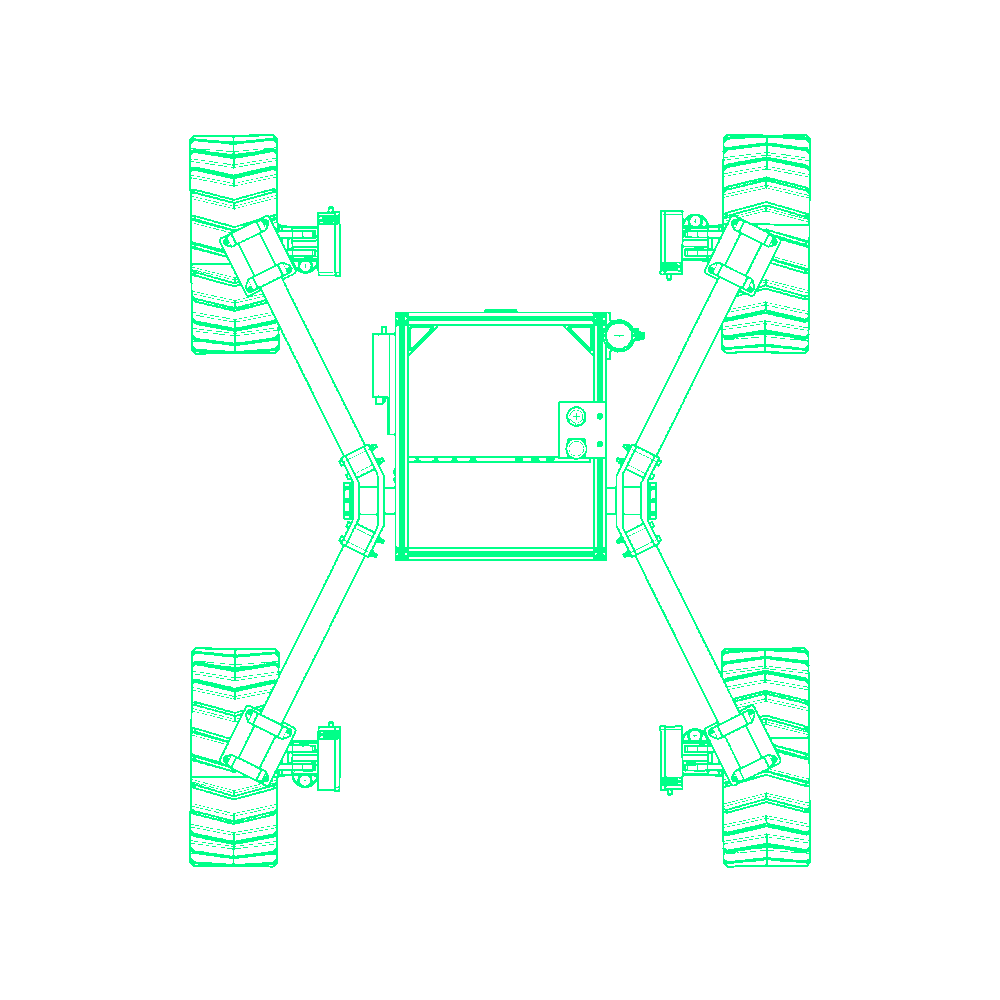
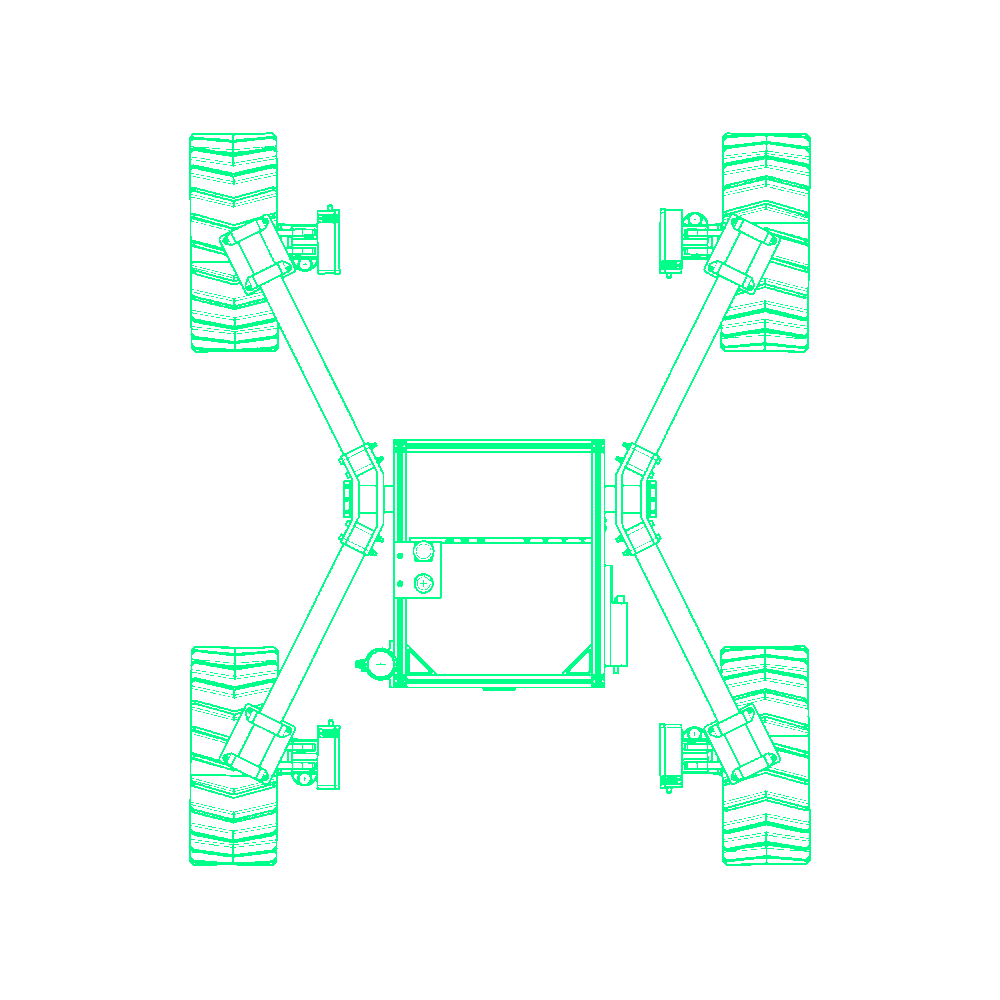
change

diff --git a/webrtc-gui/src/pages/DriveControl.tsx b/webrtc-gui/src/pages/DriveControl.tsx
@@ -92,7 +92,9 @@ const DriveControl: React.FC = () => {
 
             <TooltipLabel label="Clear Errors (Hold)">
               <div className="mr-1">
-                <ButtonHoldTooltip buttonIndex={2} holdDuration={1} onComplete={() => { }} size={50}></ButtonHoldTooltip>
+                <ButtonHoldTooltip buttonIndex={2} holdDuration={1} onComplete={() => {
+                  gamepad.hardwareStates.drive?.sendEvent!("clear_errors")
+                }} size={50} disabled={gamepad.hasControl!=="drive"}></ButtonHoldTooltip>
               </div>
             </TooltipLabel>
 
@@ -100,14 +102,18 @@ const DriveControl: React.FC = () => {
               <div className="mr-1">
                 <ButtonHoldTooltip buttonIndex={9} holdDuration={3} onComplete={() => {
                   setWarningModal(true)
-                }} size={50}></ButtonHoldTooltip>
+                }} size={50} disabled={gamepad.hasControl!=="drive"}></ButtonHoldTooltip>
               </div>
             </TooltipLabel>
 
             <Modal
               open={warningModal}
-              onClose={() => {
+              onClose={(a) => {
                 setWarningModal(false);
+
+                if(a=="Enable Torque Mode"){
+                  gamepad.hardwareStates.drive?.sendEvent!("drive_mode_2")
+                }
               }}
               title="ENABLE TORQUE MODE?"
               actions={["Enable Torque Mode", "Cancel"]}
@@ -155,10 +161,12 @@ const DriveControl: React.FC = () => {
                 display: "flex",
                 alignItems: "center",
                 justifyContent: "center",
-              }}>LOCKED</div>
+              }}>{gamepad.hardwareStates.drive?.outputs["drive_mode"]==0 ? "UNLOCKED" : "LOCKED"}</div>
               <div style={{ fontSize: 14 }}>
-                <TooltipLabel label="Unlock Differential (Hold)">
-                  <ButtonHoldTooltip buttonIndex={0} holdDuration={0.5} onComplete={() => { }} size={32}></ButtonHoldTooltip>
+                <TooltipLabel label={`${gamepad.hardwareStates.drive?.outputs["drive_mode"]==0 ? "Lock" : "Unlock"} Differential (Hold)`}>
+                  <ButtonHoldTooltip buttonIndex={0} holdDuration={0.5} onComplete={() => {
+                    gamepad.hardwareStates.drive?.sendEvent!(gamepad.hardwareStates.drive?.outputs["drive_mode"]==0 ? "drive_mode_1" : "drive_mode_0")
+                  }} size={32} disabled={gamepad.hasControl!=="drive"}></ButtonHoldTooltip>
                 </TooltipLabel>
               </div>
             </div>
@@ -197,7 +205,7 @@ const DriveControl: React.FC = () => {
               alignItems: "center",
               justifyContent: "center",
             }}>
-              <SpeedDisplay value={imuData?.imu_data?.vel?.fd} />
+              <SpeedDisplay value={gamepad.hardwareStates.drive?.outputs?.["vel_fd"] as number || 0} />
             </div>
             <div style={{
               flex: 1
@@ -217,13 +225,13 @@ const DriveControl: React.FC = () => {
           }}>
             <>
               <div style={{ flex: 1, width: "100%", display: "flex", alignItems: "center", justifyContent: "center" }}>
-                <AngleView label="PITCH" angle={imuData?.imu_data?.gyro?.p || 0} imageUrl="diagrams/eq-side.png" hasData={!!imuData} simulated={imuData && imuData.imu_data.simulated} />
+                <AngleView label="PITCH" angle={-(gamepad.hardwareStates.drive?.outputs?.["gyro_p"] as number || 0)} imageUrl="diagrams/eq-side.png" hasData={gamepad.hardwareStates.drive?.outputs?.["gyro_p"] !== undefined} simulated={false} />
               </div>
               <div style={{ flex: 1, width: "100%", display: "flex", alignItems: "center", justifyContent: "center" }}>
-                <AngleView label="ROLL" angle={imuData?.imu_data?.gyro?.r || 0} imageUrl="diagrams/eq-back.png" hasData={!!imuData} simulated={imuData && imuData.imu_data.simulated} />
+                <AngleView label="ROLL" angle={gamepad.hardwareStates.drive?.outputs?.["gyro_r"] as number || 0} imageUrl="diagrams/eq-back.png" hasData={gamepad.hardwareStates.drive?.outputs?.["gyro_r"] !== undefined} simulated={false} />
               </div>
               <div style={{ flex: 1, width: "100%", display: "flex", alignItems: "center", justifyContent: "center" }}>
-                <AngleView label="YAW" angle={imuData?.imu_data?.gyro?.y || 0} imageUrl="diagrams/eq-top.png" hasData={!!imuData} simulated={imuData && imuData.imu_data.simulated} />
+                <AngleView label="YAW" angle={gamepad.hardwareStates.drive?.outputs?.["gyro_y"] as number || 0} imageUrl="diagrams/eq-top.png" hasData={gamepad.hardwareStates.drive?.outputs?.["gyro_y"] !== undefined} simulated={false} />
               </div>
             </>
           </div>

diff --git a/webrtc-gui/src/components/StatusBanner.tsx b/webrtc-gui/src/components/StatusBanner.tsx
@@ -74,7 +74,11 @@ const StatusBanner: React.FC<StatusBannerProps> = ({
   const gamepad = useGamepad()
 
   // Check if hardware is available
-  const { ok, error } = gamepad.hardwareControlAvailable?.(controlDevice) ?? { ok: false, error: "Controller must be connected" }
+  const { ok, error } =
+    gamepad.hardwareControlAvailable?.(controlDevice) ?? {
+      ok: false,
+      error: "Controller must be connected",
+    }
 
   // Determine state
   let state: ControlState = "disabled"
@@ -89,6 +93,36 @@ const StatusBanner: React.FC<StatusBannerProps> = ({
     background: stripeBackground(colors.stripeA, colors.stripeB),
   }
 
+  const takeControl = async () => {
+    // 1⃣ Set hasControl immediately
+    gamepad.setHasControl(controlDevice)
+
+    // 2⃣ Wait for hardware to be ready
+    const hw = await new Promise<any>((resolve, reject) => {
+      const timeout = setTimeout(() => reject(new Error("Hardware not ready")), 1000)
+      const interval = setInterval(() => {
+        const hwReady = gamepad.hardwareStates[controlDevice]
+        if (hwReady?.sendEvent) {
+          clearInterval(interval)
+          clearTimeout(timeout)
+          resolve(hwReady)
+        }
+      }, 50)
+    }).catch((e) => {
+      console.warn(e.message)
+      return null
+    })
+
+    // 3⃣ Send event if ready
+    hw?.sendEvent("control_take")
+  }
+
+  const releaseControl = async () => {
+    const hw = gamepad.hardwareStates[controlDevice]
+    hw?.sendEvent?.("control_release")
+    gamepad.setHasControl("none")
+  }
+
   return (
     <div style={bannerStyle}>
       <div style={labelBase}>
@@ -100,7 +134,7 @@ const StatusBanner: React.FC<StatusBannerProps> = ({
               style={buttonStyle}
               buttonIndex={1}
               holdDuration={1}
-              onComplete={() => gamepad.setHasControl("none")}
+              onComplete={releaseControl} // sends "control_release" then releases
             />
             TO EXIT
           </>
@@ -112,14 +146,12 @@ const StatusBanner: React.FC<StatusBannerProps> = ({
               style={buttonStyle}
               buttonIndex={3}
               holdDuration={1}
-              onComplete={() => gamepad.setHasControl(controlDevice)}
+              onComplete={takeControl} // sends "control_take" then takes control
             />
             TO TAKE CONTROL OF {controlDeviceLabel.toUpperCase()}
           </>
         ) : (
-          <>
-            {(error ?? "Controller must be connected").toUpperCase()}
-          </>
+          <>{(error ?? "Controller must be connected").toUpperCase()}</>
         )}
       </div>
     </div>

diff --git a/webrtc-gui/src/components/ButtonHoldTooltip.tsx b/webrtc-gui/src/components/ButtonHoldTooltip.tsx
@@ -8,6 +8,7 @@ interface ButtonHoldTooltipProps {
   size?: number;
   onComplete: () => void;
   style?: React.CSSProperties;
+  disabled?: boolean; // ✅ New prop
 }
 
 export const ButtonHoldTooltip: React.FC<ButtonHoldTooltipProps> = ({
@@ -16,6 +17,7 @@ export const ButtonHoldTooltip: React.FC<ButtonHoldTooltipProps> = ({
   size = 64,
   onComplete,
   style,
+  disabled = false, // default false
 }) => {
   const { pressed } = useGamepad();
   const [progress, setProgress] = useState(0);
@@ -24,17 +26,24 @@ export const ButtonHoldTooltip: React.FC<ButtonHoldTooltipProps> = ({
   const prevPressedRef = useRef<boolean>(true);
 
   useEffect(() => {
+    if (disabled) {
+      setProgress(0);
+      startTimeRef.current = null;
+      prevPressedRef.current = false;
+      return;
+    }
+
     const update = (timestamp: number) => {
       const isPressed = pressed[buttonIndex] ?? false;
       const prevPressed = prevPressedRef.current;
 
-      // Rising edge: button just pressed
+      // Rising edge
       if (isPressed && !prevPressed) {
         startTimeRef.current = timestamp;
         setProgress(0);
       }
 
-      // Falling edge: button released
+      // Falling edge
       if (!isPressed && prevPressed) {
         startTimeRef.current = null;
         setProgress(0);
@@ -47,7 +56,7 @@ export const ButtonHoldTooltip: React.FC<ButtonHoldTooltipProps> = ({
         setProgress(newProgress);
 
         if (newProgress >= 1) {
-          onComplete();
+          onComplete(); // ✅ only fires if not disabled
           startTimeRef.current = null;
           setProgress(0);
         }
@@ -59,7 +68,7 @@ export const ButtonHoldTooltip: React.FC<ButtonHoldTooltipProps> = ({
 
     rafRef.current = requestAnimationFrame(update);
     return () => cancelAnimationFrame(rafRef.current);
-  }, [pressed[buttonIndex]]); // eslint-disable-line react-hooks/exhaustive-deps
+  }, [pressed[buttonIndex], disabled]); // re-run if disabled changes
 
   // Circle stroke size
   const strokeWidth = 4;
@@ -73,6 +82,8 @@ export const ButtonHoldTooltip: React.FC<ButtonHoldTooltipProps> = ({
         position: "relative",
         width: size,
         height: size,
+        opacity: disabled ? 0.6 : 1, // ✅ greyed out when disabled
+        pointerEvents: disabled ? "none" : "auto", // ✅ prevent interaction
         ...style,
       }}
     >

diff --git a/webrtc-gui/src/contexts/HardwareControl/mapping/drive.ts b/webrtc-gui/src/contexts/HardwareControl/mapping/drive.ts
@@ -1,0 +1,54 @@
+// src/mappers/arm.ts
+
+import { GamepadInputMapping } from "../types";
+
+// -------------------------
+// Configuration
+// -------------------------
+
+const DEADZONE = 0.1;
+const MAX_VELOCITY = 10; // Max velocity in deg/s for the arm joints. Actuators support up to 500 deg/s.
+const MAX_ANGULAR = 10; // Overall sensitivity multiplier for the controls
+const SCALE_VELOCITY = 1.0; // Additional scaling factor for velocity (can be adjusted for sensitivity)
+const SCALE_ANGULAR = 120.0; // Additional scaling factor for angular velocity (can be adjusted for sensitivity)
+
+// -------------------------
+// Helpers
+// -------------------------
+
+function applyDeadzone(value: number, dz = DEADZONE): number {
+  return Math.abs(value) < dz ? 0 : value;
+}
+
+function scaleAxisToRange(value: number, max: number): number {
+  return Math.max(-1, Math.min(1, value)) * max;
+}
+
+// -------------------------
+// Mapper
+// -------------------------
+
+/**
+ * Map gamepad inputs to IK-based end-effector axes
+ * axes[2] = right stick X → yaw
+ * axes[3] = right stick Y → pitch
+ * buttons[6] = left trigger
+ * buttons[7] = right trigger
+ * 
+ * X → Forward
+ * Y → Left
+ * Z → Up
+ */
+export function mapGamepadToDriveInputs(
+  axes: number[],
+  buttons: number[]
+): GamepadInputMapping {
+  const targets: Record<string, number> = {};
+
+  targets["drive_x"] = -applyDeadzone(axes[2] ?? 0);
+  targets["drive_y"] = applyDeadzone(axes[3] ?? 0);
+
+  targets["drive_multiplier"] = -200;
+
+  return targets;
+}

diff --git a/webrtc-gui/src/contexts/HardwareControl/GamepadContext.tsx b/webrtc-gui/src/contexts/HardwareControl/GamepadContext.tsx
@@ -85,6 +85,14 @@ export const GamepadProvider = ({ children }: { children: ReactNode }) => {
             hasControl: false,
             outputs: {},
             error: null,
+            sendEvent: (name: string) => {
+              const socket = controlSockets.current[hw];
+              if (socket?.ws?.readyState === WebSocket.OPEN) {
+                socket.sendEvent(name);
+              } else {
+                console.warn(`Cannot send event, WS not open for ${hw}`);
+              }
+            },
           };
         }
       });
@@ -243,10 +251,19 @@ export const GamepadProvider = ({ children }: { children: ReactNode }) => {
     setHardwareStates((prev) => ({
       ...prev,
       [name]: {
+        ...(prev[name] || {}),
         ws: adapter,
         hasControl: true,
         outputs: {},
         error: null,
+        sendEvent: prev[name]?.sendEvent ?? ((eventName: string) => {
+          const socket = controlSockets.current[name];
+          if (socket?.ws?.readyState === WebSocket.OPEN) {
+            socket.sendEvent(eventName);
+          } else {
+            console.warn(`Cannot send event, WS not open for ${name}`);
+          }
+        }),
       },
     }));
 

diff --git a/webrtc-gui/src/contexts/HardwareControl/mapping/index.ts b/webrtc-gui/src/contexts/HardwareControl/mapping/index.ts
@@ -1,12 +1,12 @@
 import { mapGamepadToArmInputs } from "./arm";
-//import { mapGamepadToDriveInputs } from "./drive";
+import { mapGamepadToDriveInputs } from "./drive";
 //import { mapGamepadToExcavatorInputs } from "./excavator";
 //import { mapGamepadToScienceInputs } from "./science";
 //import { mapGamepadToPTZCamInputs } from "./ptzcam";
 
 export const gamepadMappings: Record<string, (axes: number[], buttons: number[]) => any> = {
   arm: mapGamepadToArmInputs,
-  //drive: mapGamepadToDriveInputs,
+  drive: mapGamepadToDriveInputs,
   //excavator: mapGamepadToExcavatorInputs,
   //science: mapGamepadToScienceInputs,
   //ptzcam: mapGamepadToPTZCamInputs,

diff --git a/webrtc-gui/src/contexts/HardwareControl/types.ts b/webrtc-gui/src/contexts/HardwareControl/types.ts
@@ -16,6 +16,7 @@ export interface HardwareState {
   hasControl: boolean;
   outputs: OutputPayload;
   error: string | null;
+  sendEvent?: (event: string) => void;
 }
 
 export interface GamepadInputMapping {

diff --git a/webrtc-gui/src/contexts/HardwareControl/ControlSocketAdapter.ts b/webrtc-gui/src/contexts/HardwareControl/ControlSocketAdapter.ts
@@ -52,6 +52,10 @@ export class ControlSocketAdapter {
     }
   }
 
+  sendEvent(name: string) {
+    this.sendInput({ [name]: true });
+  }
+
   close() {
     this.ws?.close();
     this.ws = null;
